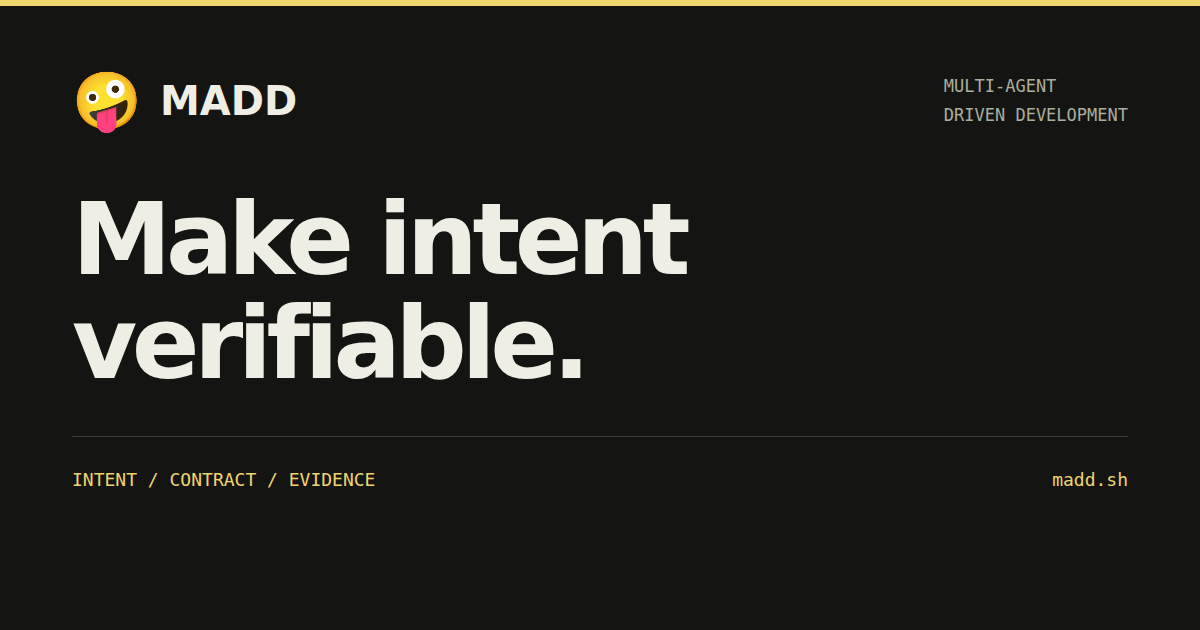
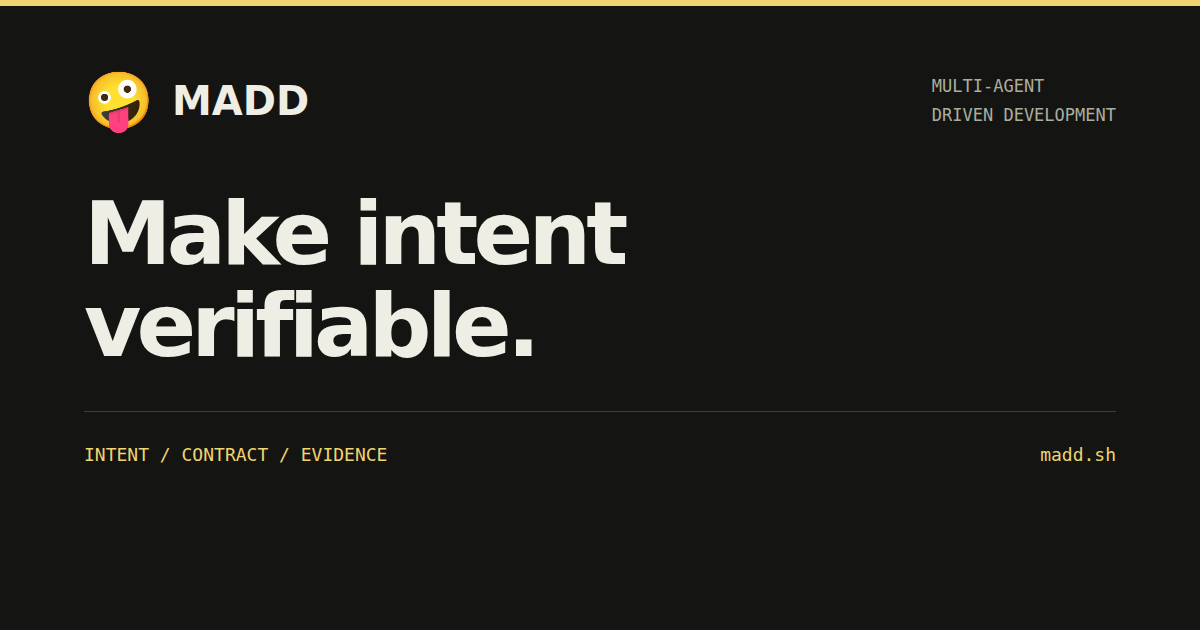
fix: make the vocabulary and social preview shareable
Merged after full browser CI passed. Adds a human-readable vocabulary index and complete 1200x630 Open Graph/Twitter metadata.

diff --git a/scripts/social-card.html b/scripts/social-card.html
@@ -2,11 +2,11 @@
 <html lang="en"><meta charset="utf-8"><title>MADD share card</title>
 <style>
 * { box-sizing: border-box; }
-body { margin: 0; width: 1200px; height: 630px; padding: 62px 72px; background: #141512; color: #efeee5; font-family: system-ui, sans-serif; border-top: 6px solid #efd46f; }
+body { margin: 0; width: 1200px; height: 630px; padding: 62px 84px; background: #141512; color: #efeee5; font-family: system-ui, sans-serif; border-top: 6px solid #efd46f; }
 header { display: flex; align-items: center; gap: 18px; font-size: 40px; font-weight: 750; }
 header span { font-size: 56px; }
 header small { margin-left: auto; font: 17px/1.7 monospace; color: #abae9f; }
-h1 { max-width: 820px; font-size: 100px; line-height: 1.04; letter-spacing: -.055em; margin: 54px 0 40px; }
+h1 { max-width: 760px; font-size: 88px; line-height: 1.04; letter-spacing: -.055em; margin: 54px 0 40px; }
 footer { display: flex; justify-content: space-between; border-top: 1px solid #3b3f32; padding-top: 28px; color: #efd46f; font: 18px/1.7 monospace; }
 </style>
 <body><header><span aria-hidden="true">🤪</span> MADD<small>MULTI-AGENT<br>DRIVEN DEVELOPMENT</small></header><h1></h1><footer><span>INTENT / CONTRACT / EVIDENCE</span><span>madd.sh</span></footer></body></html>

diff --git a/layouts/partials/head.html b/layouts/partials/head.html
@@ -5,8 +5,9 @@
 <link rel="canonical" href="{{ .Permalink }}">
 <meta property="og:type" content="website"><meta property="og:title" content="{{ .Title }} — MADD">
 <meta property="og:description" content="{{ .Description }}"><meta property="og:url" content="{{ .Permalink }}">
-<meta property="og:image" content="{{ "images/og-default.png" | absURL }}">
-<meta name="twitter:card" content="summary_large_image">
+<meta property="og:image" content="{{ "images/og-default.png" | absURL }}"><meta property="og:image:secure_url" content="{{ "images/og-default.png" | absURL }}">
+<meta property="og:image:type" content="image/png"><meta property="og:image:width" content="1200"><meta property="og:image:height" content="630"><meta property="og:image:alt" content="MADD — Make intent verifiable">
+<meta name="twitter:card" content="summary_large_image"><meta name="twitter:image" content="{{ "images/og-default.png" | absURL }}"><meta name="twitter:image:alt" content="MADD — Make intent verifiable">
 <link rel="icon" type="image/svg+xml" href="{{ "favicon.svg" | relURL }}">
 <link rel="stylesheet" href="{{ "css/style.css" | relURL }}">
 {{ range .AllTranslations }}<link rel="alternate" hreflang="{{ .Lang }}" href="{{ .Permalink }}">{{ end }}

diff --git a/static/vocab/index.html b/static/vocab/index.html
@@ -1,0 +1,21 @@
+<!doctype html>
+<html lang="en">
+<head>
+  <meta charset="utf-8">
+  <meta name="viewport" content="width=device-width,initial-scale=1">
+  <title>MADD vocabulary</title>
+  <meta name="description" content="The public vocabulary used by Multi-Agent Driven Development.">
+  <link rel="alternate" type="application/ld+json" href="madd.jsonld">
+</head>
+<body>
+  <main>
+    <h1>MADD vocabulary</h1>
+    <p>Terms used by Multi-Agent Driven Development.</p>
+    <p><a href="madd.jsonld">Read the JSON-LD vocabulary</a></p>
+    <ul>
+      <li>Intention</li><li>Contract</li><li>Fraction</li><li>Requirement</li>
+      <li>Check</li><li>Evidence</li><li>Witness</li><li>Breaker</li>
+    </ul>
+  </main>
+</body>
+</html>
